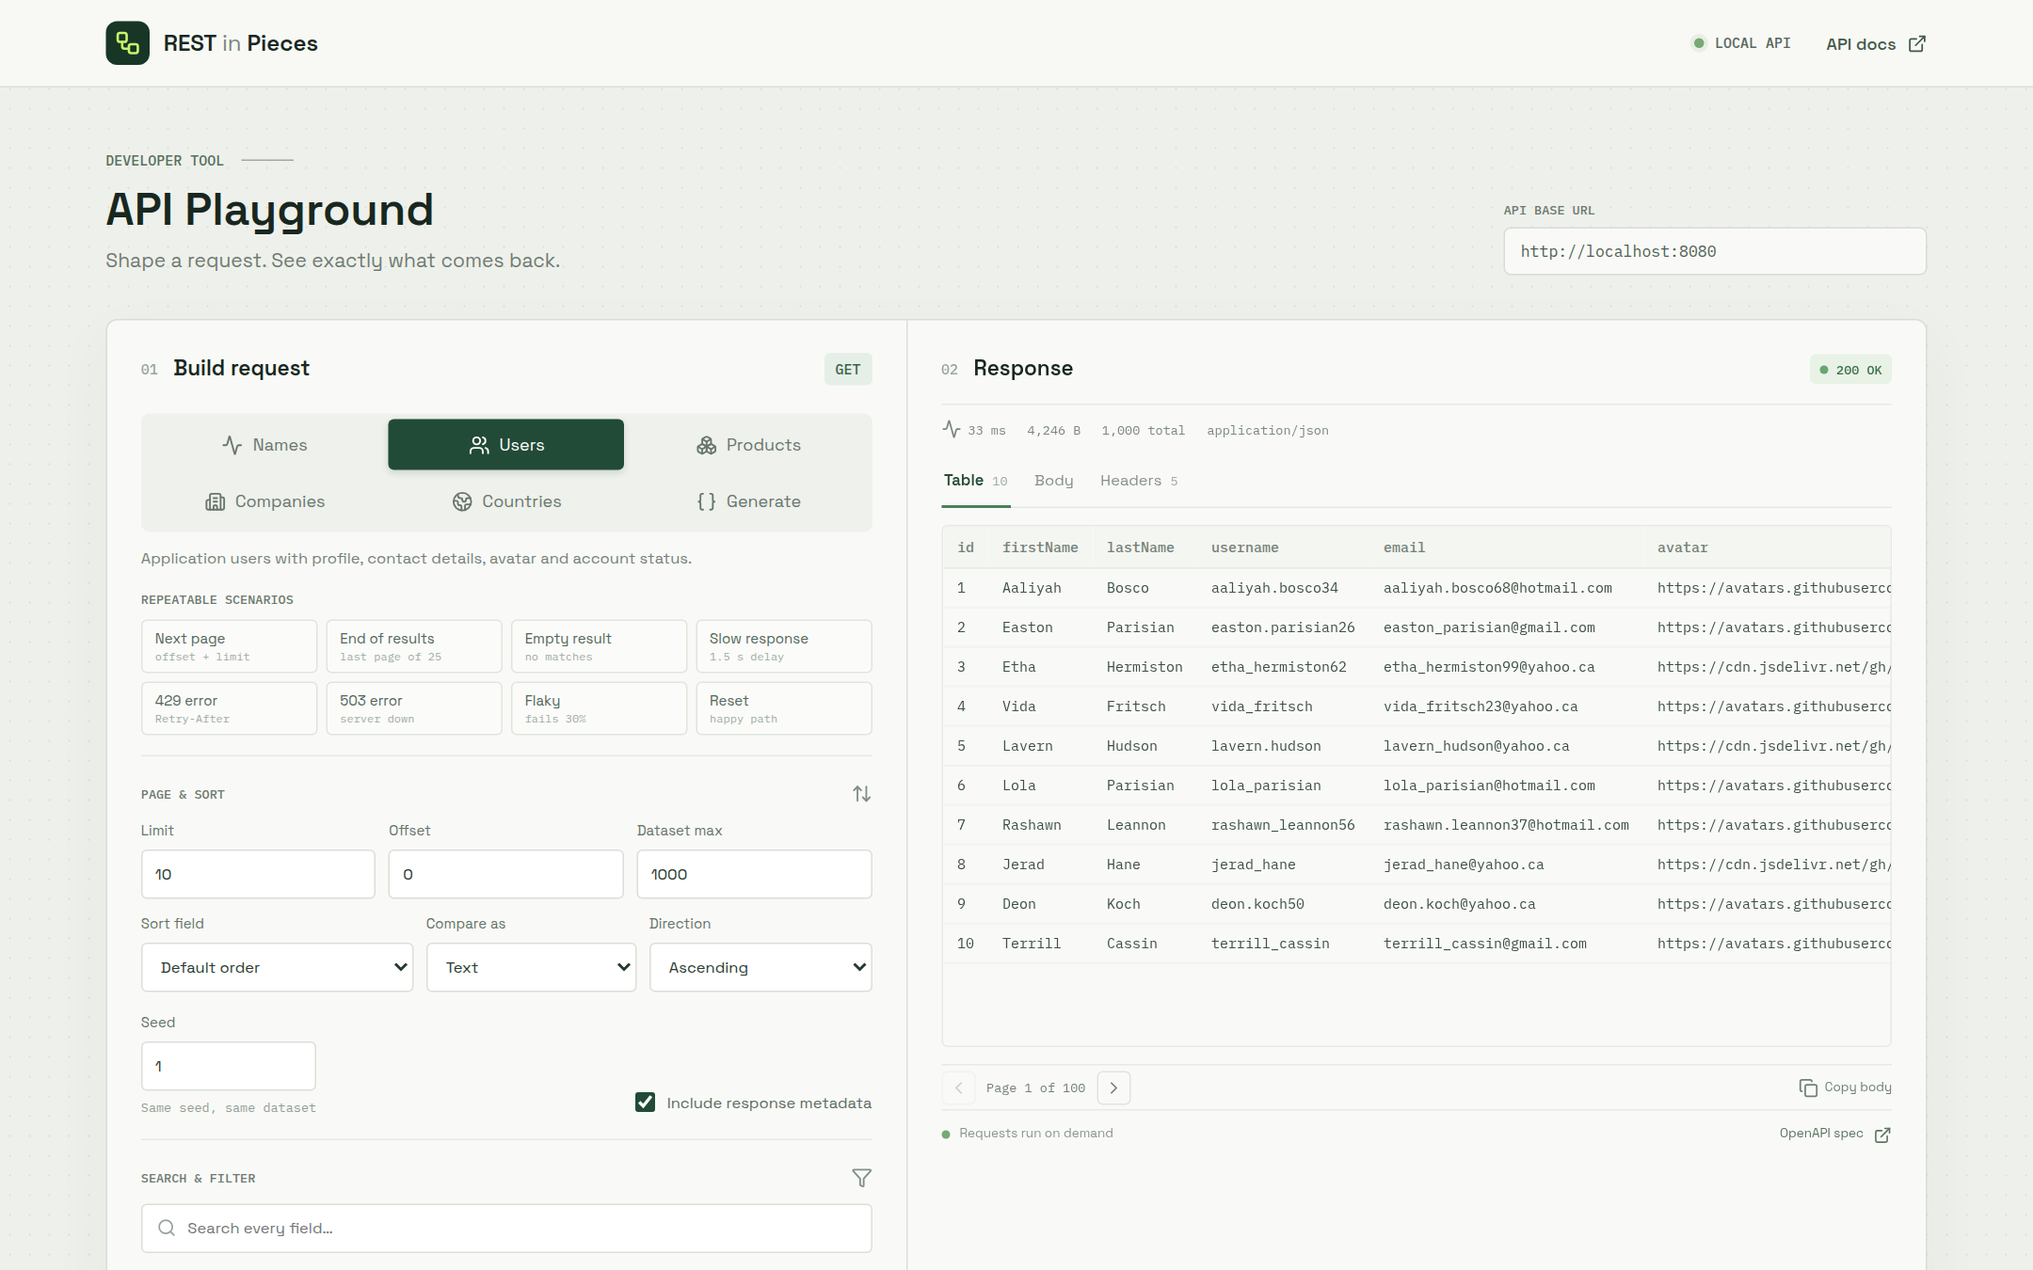
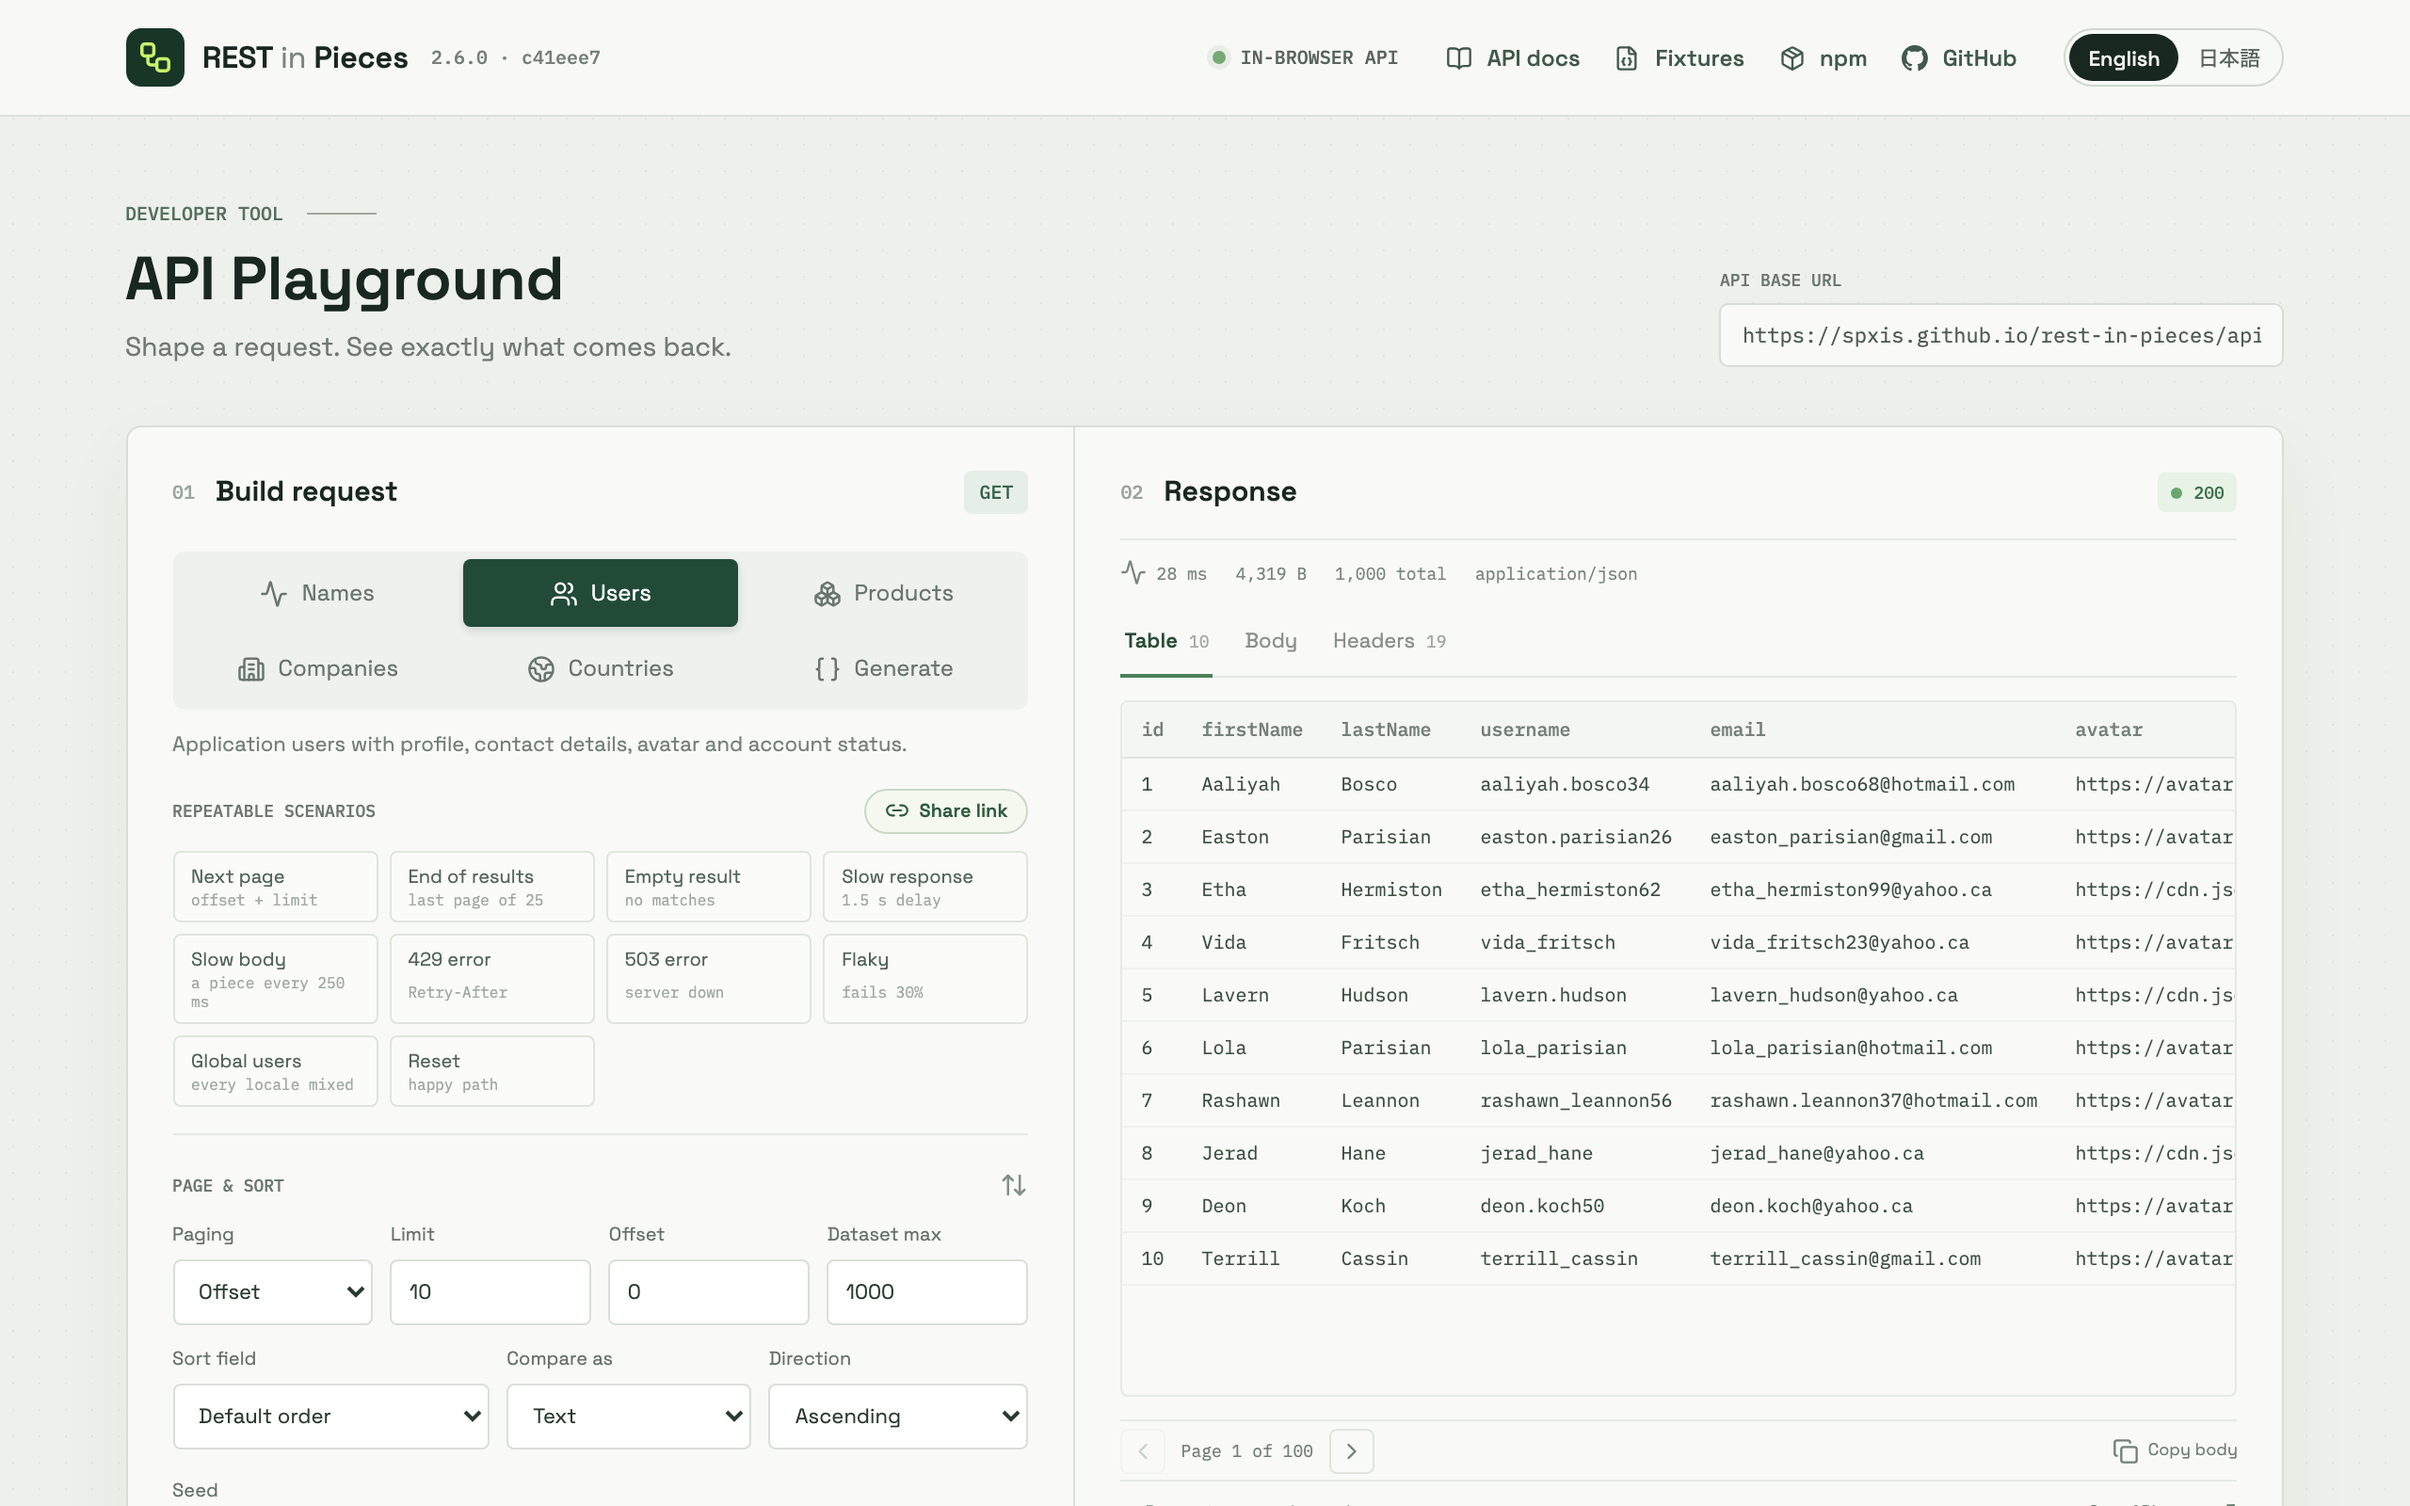
docs: open the README with the live demo
The README starts with the Pages link, an npm badge and a screenshot of the Pages build at 1280 wide, then npx, Docker and in-process use, without repeating the browser line under Run it. CONTRIBUTING shows how to build and preview the Pages site locally.

Closes #26

diff --git a/README.md b/README.md
@@ -2,17 +2,18 @@
 
 [![CI](https://github.com/spxis/rest-in-pieces/actions/workflows/ci.yml/badge.svg)](https://github.com/spxis/rest-in-pieces/actions/workflows/ci.yml)
 [![Pages](https://github.com/spxis/rest-in-pieces/actions/workflows/pages.yml/badge.svg)](https://spxis.github.io/rest-in-pieces/)
+[![npm](https://img.shields.io/npm/v/rest-in-pieces)](https://www.npmjs.com/package/rest-in-pieces)
 ![Node 24](https://img.shields.io/badge/node-24_LTS-3c873a)
 ![TypeScript](https://img.shields.io/badge/TypeScript-7-3178c6)
 [![License: MIT](https://img.shields.io/badge/license-MIT-blue)](LICENSE)
 
+**Try it: [spxis.github.io/rest-in-pieces](https://spxis.github.io/rest-in-pieces/).** The live demo runs the whole API inside the page, so there is no server behind it and nothing to install.
+
 **A repeatable test backend for frontend development.** Build tables, pagination, sorting, filters, loading states, empty states and error handling against realistic data, before a real backend exists.
 
+[![The REST in Pieces playground](docs/images/playground.png)](https://spxis.github.io/rest-in-pieces/)
+
 Every dataset is generated from a seed. The same URL returns the same records on every machine and after every restart, so a bug can be reproduced from its URL instead of disappearing with a new random dataset.
-
-**[Try it in your browser](https://spxis.github.io/rest-in-pieces/).** The live demo runs the whole API inside the page, so there is no server behind it and nothing to install.
-
-![The REST in Pieces playground](docs/images/playground.png)
 
 ## Run it
 
@@ -29,8 +30,6 @@ npx rest-in-pieces --host 0.0.0.0   # reachable from other machines and containe
 ```sh
 docker run --rm -p 6800:6800 ghcr.io/spxis/rest-in-pieces
 ```
-
-**In your browser:** the [live demo on GitHub Pages](https://spxis.github.io/rest-in-pieces/) runs the whole API inside the tab.
 
 **Inside your tests**, with no port and no server to start. `createApp()` builds the API and `app.request()` answers in-process, in Vitest, Jest, Playwright or any Node script:
 
@@ -329,7 +328,7 @@ Set `PORT` to move the API, and `VITE_API_BASE_URL` to point the playground else
 
 **Docker.** Every release publishes `ghcr.io/spxis/rest-in-pieces` for amd64 and arm64, tagged with its version (such as `:2.2.0`) and `latest`. The image serves everything from port 6800, runs as a non-root user and includes a health check.
 
-**GitHub Pages.** `.github/workflows/pages.yml` publishes the in-browser playground on every push to `main`. `pnpm --filter @rest-in-pieces/web build:pages` builds it locally into `apps/web/dist-pages`: the playground, the API bundled as a chunk it loads on the first request, static copies of `api/openapi.json` and `api/docs/`, and the [fixtures](#fixtures). Set `PAGES_BASE` to serve it from somewhere other than `/rest-in-pieces/`.
+**GitHub Pages.** `.github/workflows/pages.yml` publishes the in-browser playground on every push to `main`. `pnpm --filter @rest-in-pieces/web build:pages` builds it locally into `apps/web/dist-pages`: the playground, the API bundled as a chunk it loads on the first request, static copies of `api/openapi.json` and `api/docs/`, and the [fixtures](#fixtures). Set `PAGES_BASE` to serve it from somewhere other than `/rest-in-pieces/`. [CONTRIBUTING.md](CONTRIBUTING.md#previewing-the-github-pages-build) shows how to preview it locally.
 
 ## License
 

diff --git a/CONTRIBUTING.md b/CONTRIBUTING.md
@@ -15,6 +15,17 @@ pnpm dev        # API on :6800, playground on :6801
 
 Local ports come from this project's block, 6800–6899; [AGENTS.md](AGENTS.md) says which is which and how to pick a free one for a worktree.
 
+## Previewing the GitHub Pages build
+
+The live demo is a separate build of the playground with the whole API inside it. To check it before it is published:
+
+```sh
+pnpm --filter @rest-in-pieces/web build:pages
+pnpm --filter @rest-in-pieces/web exec vite preview --mode pages --port 6802 --strictPort
+```
+
+Then open [http://localhost:6802/rest-in-pieces/](http://localhost:6802/rest-in-pieces/). `--mode pages` makes the preview serve `apps/web/dist-pages` under `/rest-in-pieces/`, the paths the build was made for; without it the page loads but its scripts do not. The API reference is at `api/docs/` beside it. Take another free port in the block if 6802 is in use.
+
 ## Project layout
 
 | Path | Contents |

diff --git a/CHANGELOG.md b/CHANGELOG.md
@@ -4,6 +4,10 @@ Notable user-facing changes are recorded here. The project follows [Semantic Ver
 
 ## Unreleased
 
+### Changed
+
+- The live demo is the front door: the README opens with it, the playground's top bar links to the API reference, the fixtures, the npm package and the repository, each scenario offers its share link first, and the page title and description say what the service is.
+
 ## 2.8.0 - 2026-10-08
 
 ### Added
